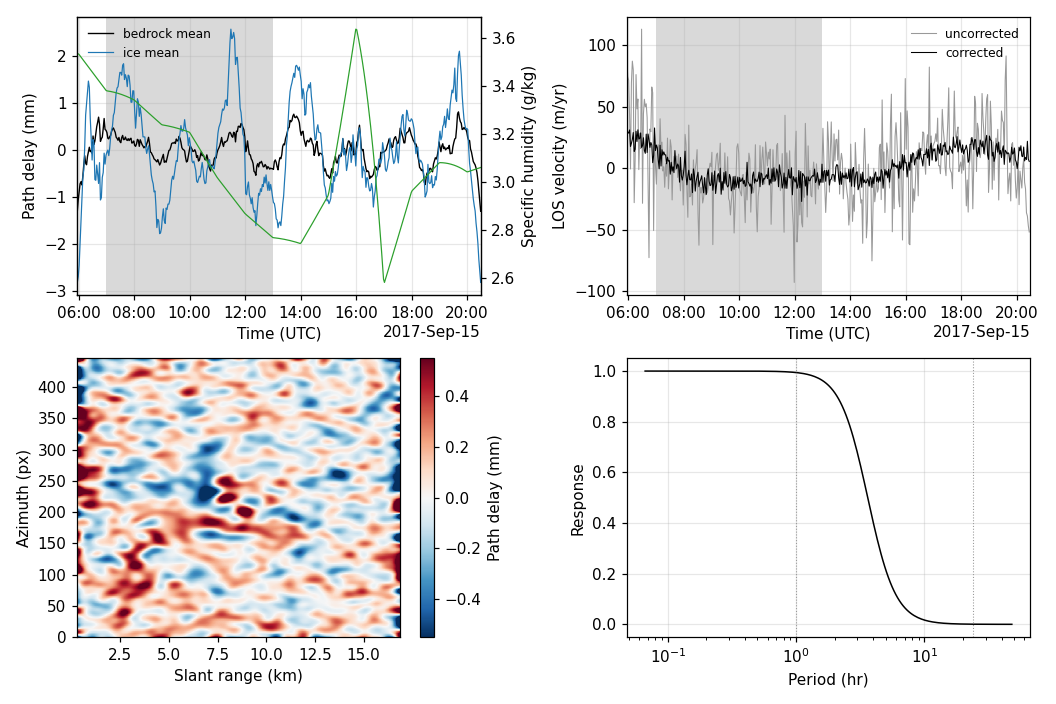
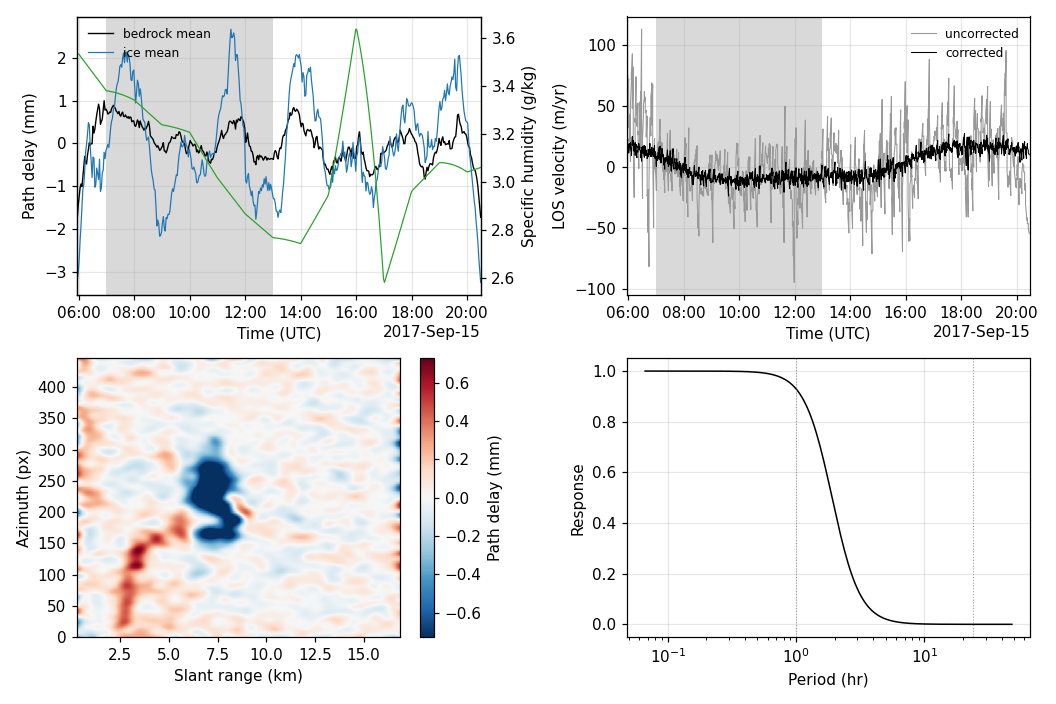
pathdelay: run it the way the method is built, over several baselines
A daisy chain supplies only the shortest triplet. Forming interferograms
at lags 1, 2 and 3 gives the (1,-2,1), (1,0,-2,0,1) and (1,0,0,-2,0,0,1)
rows the method calls for, each an independent measurement rather than a
combination of the others.

Measured on 20170913: 435 double differences become 3,897 for the same
437 unknowns; the noise propagated into the delay falls from 0.619 to
0.099, and the delay recovered grows from 0.340 to 0.438 mm rms, the
chain-only estimate having been noise-limited and shrunk by its own
regularisation. The two agree at r = +0.92.

The row that matters is the per-pixel control: with one observation per
unknown a per-pixel solve fits its own noise and appears to remove 90 %
of the scatter from bedrock it never saw; with nine it removes 46 %.
That is the only change so far that makes the per-pixel field worth
anything.

docs/pathdelay.md and the README reproduce block carry the comparison
and the cost -- about 1.4 s per pair to read, six gigabytes of cache for
a 437-epoch campaign.

diff --git a/docs/pathdelay.md b/docs/pathdelay.md
@@ -118,6 +118,43 @@ smoothed delay field at one epoch. Bottom right, the response of the
 inversion against period, with one hour and one day marked. Local night
 (00–06) is shaded.*
 
+## Several temporal baselines, not just the chain
+
+The method is built on triplets, and a daisy chain of consecutive pairs
+supplies only the shortest of them. Forming interferograms at lags 1, 2 and
+3 as well gives triplets at three spacings — the `(1, -2, 1)`,
+`(1, 0, -2, 0, 1)` and `(1, 0, 0, -2, 0, 0, 1)` rows — each an independent
+measurement rather than a combination of the others. `--lags 1 2 3` does it;
+the cost is reading the stack again (~1.4 s per pair, so half an hour for a
+437-epoch campaign and about six gigabytes of cache).
+
+On `20170913` that turns 435 double differences into 3,897 for the same 437
+unknowns:
+
+| | lag 1 | lags 1+2+3 |
+|---|---:|---:|
+| double differences | 435 | 3,897 |
+| noise propagated into the delay | 0.619 | **0.099** |
+| delay recovered, rms / peak to peak | 0.340 / 2.11 mm | 0.438 / 2.65 mm |
+| held-out bedrock scatter removed, `scene` | 56.5 % | 55.3 % |
+| `pixel` self-fitting on held-out bedrock | 89.8 % | **46.1 %** |
+
+The two delay series agree at r = +0.92 with an rms difference of 0.18 mm,
+so this is the same signal measured better: six times less noise into the
+estimate, and more delay recovered, the chain-only version having been
+noise-limited and shrunk by its own regularisation.
+
+The number that matters is the last row. With one observation per unknown a
+per-pixel solve fits its own noise, which is why the `pixel` control removes
+90 % of the scatter from bedrock it has never otherwise seen. Nine
+observations per unknown halves that, and it is the only change here that
+makes the per-pixel field worth anything.
+
+The regularisation floor rises with the extra baselines — 1.92 to 75.0 on
+`20170913` — because longer baselines are more sensitive at long periods and
+so let more of a diurnal through for the same weight. That is
+`lambda_for_system_response` measuring the operator it is actually given.
+
 ## Keeping it off the signal you mean to measure
 
 The cross-validated weight is not safe by default. Across the six campaigns

diff --git a/README.md b/README.md
@@ -225,8 +225,11 @@ python examples/baker_melt.py --campaigns $CAMPAIGNS
 for s in $CAMPAIGNS; do python examples/baker_brightness.py --scene $s; done
 for s in $CAMPAIGNS; do python examples/baker_catchments.py --scene $s; done
 # the atmosphere separated in time instead of space: one path delay per
-# acquisition from double-differenced pairs, scored on held-out bedrock
-for s in $CAMPAIGNS; do python examples/baker_pathdelay.py --scene $s; done
+# acquisition from double-differenced pairs, scored on held-out bedrock.
+# --lags 1 2 3 forms the triplets at three temporal baselines, which is what
+# the method is built for: nine observations per unknown instead of one, and
+# six times less noise in the delay -- at the cost of reading the stack again
+for s in $CAMPAIGNS; do python examples/baker_pathdelay.py --scene $s --lags 1 2 3; done
 ```
 
 `bin/run_scene.sh <scene> [upper|lower|both]` runs the deformation chain for
